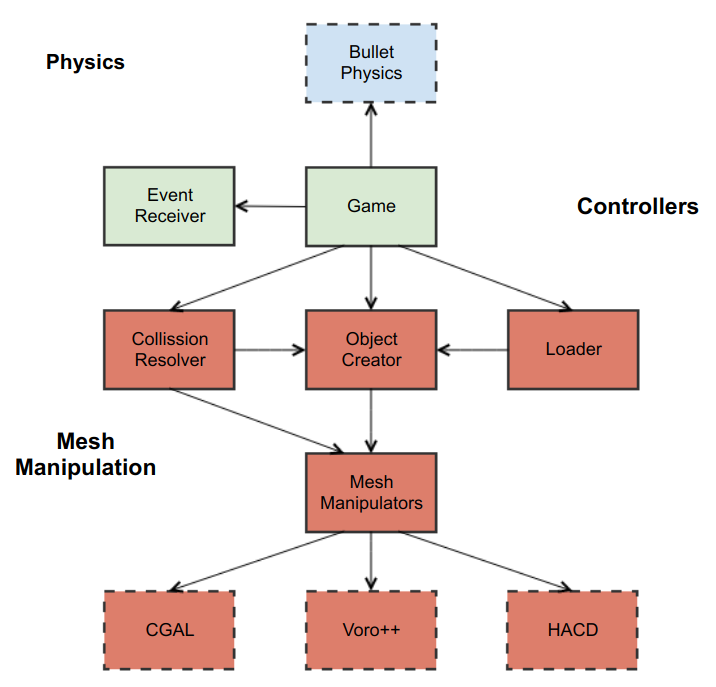
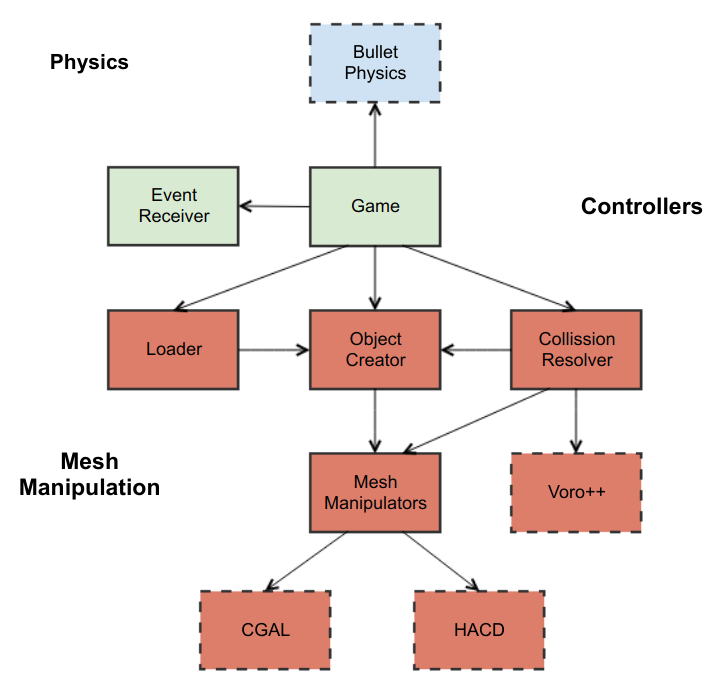
Update on Overleaf.

diff --git a/chap04.tex b/chap04.tex
@@ -1,22 +1,41 @@
 \chapter{Implementation}
+In this chapter we will explain how is our demo game implemented. We will talk about how are data represented and how different modules and third party software libraries work together.
+
+After consideration of different approaches implemented in games and also proposed efficient solutions to the problem of real-time destructible environment, we decided to try to implement a new approach. We will borrow already tried techniques and put them together in a different way.
+
+Our approach is mostly similar to \emph{Geomod} (described in \cref{sec:common}) with a key differences. Our approach generates Voronoi cell at the point of collision. Then the difference of original mesh and Voronoi cell is calculated and represents damaged object. To generate the debris the intersection of original mesh and Voronoi cell is calculated. This effectively cuts the object into two or more pieces, all of which are put back into simulation and can be damaged again.
+
+Randomization of the size and shape of Voronoi cell guarantees different result after every collision and makes the game look more realistic. The generation of Voronoi cell takes place in closed cube with its centre in the point of collision. In the cube random points are generated in addition to centre one, and the Voronoi cell is the cell of centre point cut by sides of the cube if necessary.
+
+We also considered implementation based on \emph{A fast method for simulating destruction and the generated dust and debris} (see \cref{sec:edem}). Using the same technology as for our demo game, we set up a cube divided into 439 tetrahedrons. After introducing constraints to hold the elements together we experienced drop from default 60fps (set as upper limit) to 13fps. This result is consistent with results in the article~\cite{edem} and the conclusion is that this approach is not suitable for our work.
 
 \section{Program Structure}
-\begin{figure}[ht!]
-        \centering
-        \includegraphics[width=\textwidth]{img/destructionFlow}
-        \caption{}
-        \label{fig:destFlow}
-\end{figure}
+The program is running in three threads (\cref{fig:threads}): main thread, threat for subtracting meshes (\cref{sec:subtraction}) and thread for decomposing triangular mesh into set of convex shapes (\cref{sec:decomposition}). Both subtraction and decomposition threads communicate only with main thread and all communication is done in producer-consumer model. Disregarding the initialization, the program runs in following steps:
+\begin{enumerate}
+\item Perform a step in physics simulation. We measure the time since last step and leave this task entirely to Bullet physics engine.
+\item Handle collisions, see \cref{sec:collisions}.
+\item Read user input and then apply correct forces to controlled vehicle.
+\item Render current state of objects. In this step, graphical representation of every object is updated to comply with its rigid body version. Also the camera has to be properly moved and rotated.
+\end{enumerate}
 
 \begin{figure}
         \centering
-        \includegraphics[width=\textwidth]{img/objectmodel}
-        \caption{}
-        \label{fig:modules}
+        \includegraphics[width=\textwidth]{img/decompositionFlow}
+        \caption{Diagram showing multiple threads handling collision event. }
+        \label{fig:threads}
 \end{figure}
+
+
+
+\section{Collision handling}
+\label{sec:collisions}
+
+
+\section{Mesh Subtraction}
+\label{sec:subtraction}
+
+\section{Convex Decomposition}
+\label{sec:decomposition}
 
 \section{Data Representation}
 
-\section{Convex Decomposition}
-
-\section{Mesh Subtraction}

diff --git a/chap01.tex b/chap01.tex
@@ -4,7 +4,7 @@ This chapter introduces the techniques used to simulate destructible environment
 We will repeatedly categorise the content of the game world in following way: We will use the word object to refer to any building, crate, door, tree or other items that occur in the game environment, but excluding terrain, distant environment like skyboxes and any in-game characters. Most of the modern 3D games use the term destructible environment as a reference to destructible objects because they do not support the destruction of terrain. We will comply with this terminology and use destructible environment as a reference to destruction of objects and not the terrain
 
 \section{Implementations in mainstream gaming}
-
+\label{sec:common}
 In this brief overview, we introduce most common approaches to environment destruction that can be seen through the games released in last 40 years. More common approaches can be regularly seen in newly released games. 
 
 \para{Object replacement or removal} was the first method used to simulate the destructible environment in a computer game, mostly because it is straightforward and undemanding. Despite its simplicity, it can still produce a very desirable result. In fact, it is still most widely used approach to the destructible environment in computer games.
@@ -30,6 +30,7 @@ The most common implementation of destructible objects in 3D games has not chang
 
 %tady zduraznit ze to je prvni 3d hra ktera s tim vysla fakt na povrch
 \para{\emph{Geo-Mod}} (\emph{Geometry Modification Technology}\cite{geomod}) is an engine developed for the \emph{Red Faction (2001)}\footnote{http://redfaction.wikia.com/wiki/Red\_Faction} video game. It allows players to modify and make holes in the terrain using the solution of creating objects representing an empty space. The difference of meshes is calculated in real time to represent the terrain with a hole. Even though the engine does not work well with the buildings and other objects, it represents the first significant attempt to create the fully destructible 3D environment in real time constraints.
+
 
 \para{\emph{Geo-Mod 2}}~\cite{geomod}\footnote{Geo-Mod 2.0 presentation video https://www.youtube.com/watch?v=lICurOVsNv0} does not feature destructible terrain, instead, it uses physics simulation on specially prepared objects. A set of smaller objects is used as a ragdoll for the stress-based simulation model. The complexity of simulation limits the engine in the scale of the game world and mutual proximity of destructible objects.
 
@@ -99,10 +100,10 @@ There are also other solutions for decomposition, \eg slicing by planes or conve
 
 \section{Related research}
 
-%Nejakej uvod o cem ta kapitola vlastne je
 \todo{uvod}
 \subsection{A fast method for simulating destruction and the generated dust
 and debris}
+\label{sec:edem}
 This method \cite{edem} approaches destruction on three scales. At first, the destruction is performed on a coarse scale, and then the applied energy is used to calculate the amount and size of smaller debris and finally dust particles.
 
 \begin{description}

diff --git a/chap05.tex b/chap05.tex
@@ -8,3 +8,9 @@
 
 \section{User interface}
 
+\begin{figure}
+        \centering
+        \includegraphics[width=\textwidth]{img/objectmodel}
+        \caption{Software architecture shown on diagram of relationships of program modules. Third party software is highlighted in dashed rectangles.}
+        \label{fig:modules}
+\end{figure}
